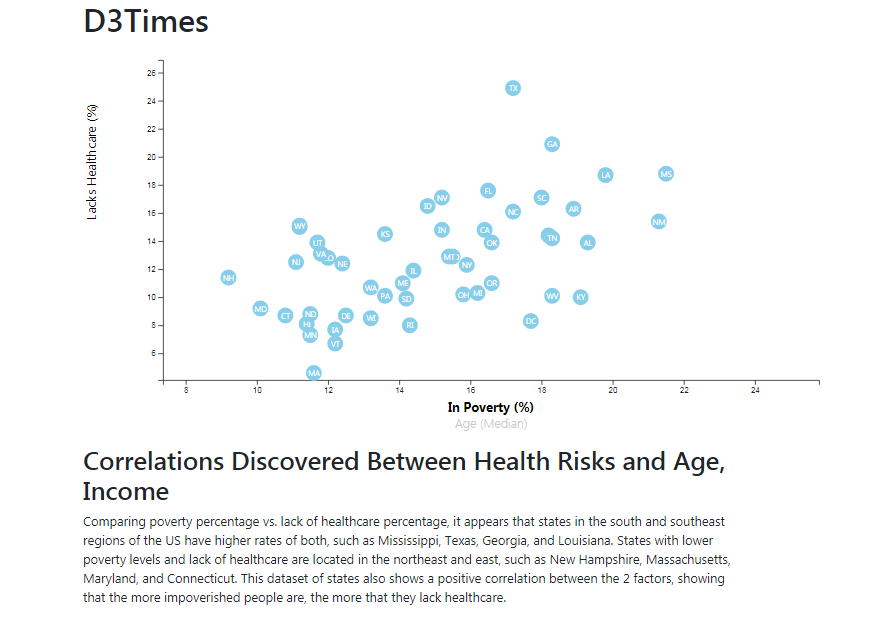
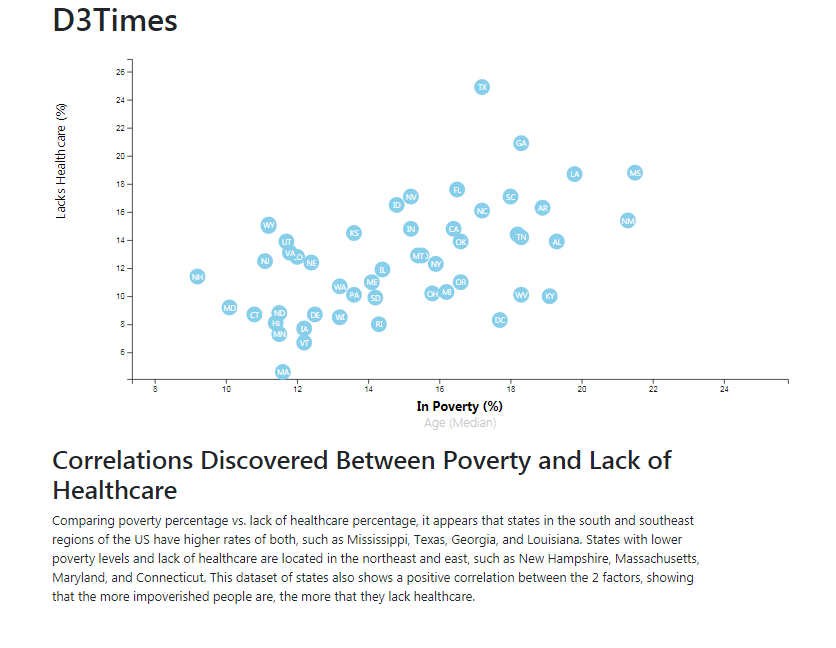
update html, replace image

diff --git a/index.html b/index.html
@@ -27,7 +27,7 @@
     <div class="row">
       <div class="col-xs-12  col-md-9">
         <div class="article">
-          <h2>Correlations Discovered Between Health Risks and Age, Income</h2>
+          <h2>Correlations Discovered Between Poverty and Lack of Healthcare</h2>
           <p>Comparing poverty percentage vs. lack of healthcare percentage, it appears that states in the south and southeast
             regions of the US have higher rates of both, such as Mississippi, Texas, Georgia, and Louisiana. States with lower
             poverty levels and lack of healthcare are located in the northeast and east, such as New Hampshire, Massachusetts,
